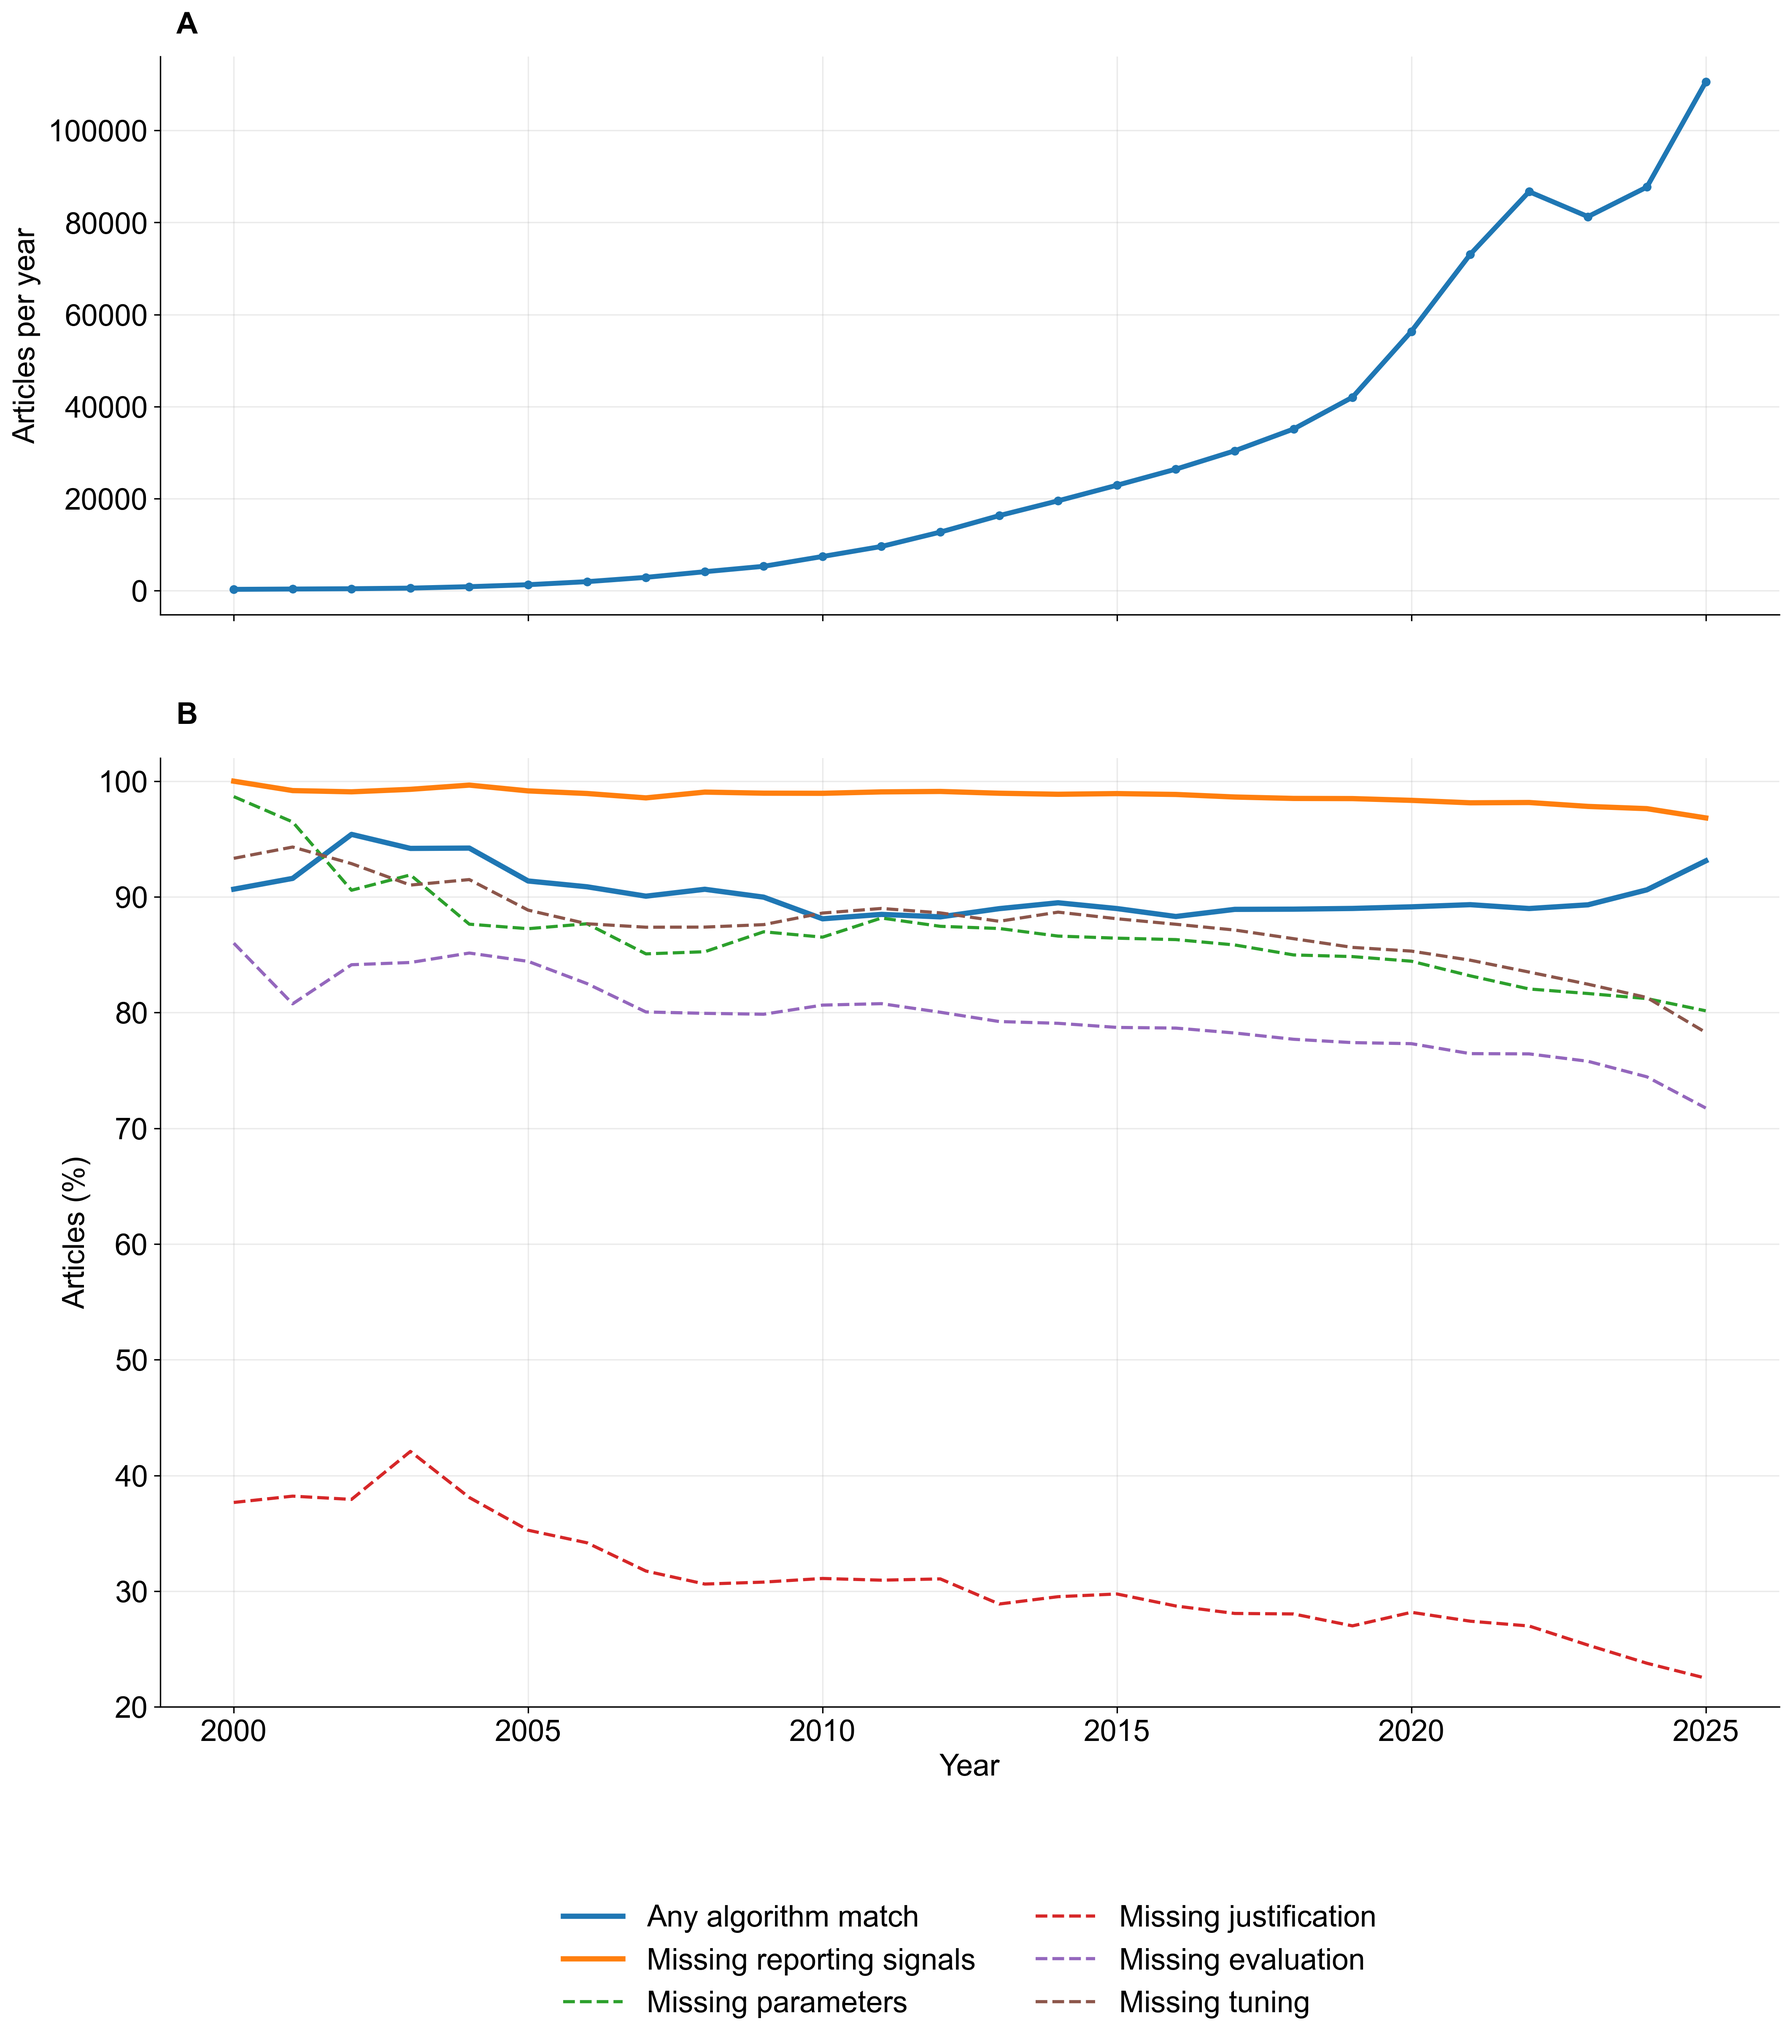
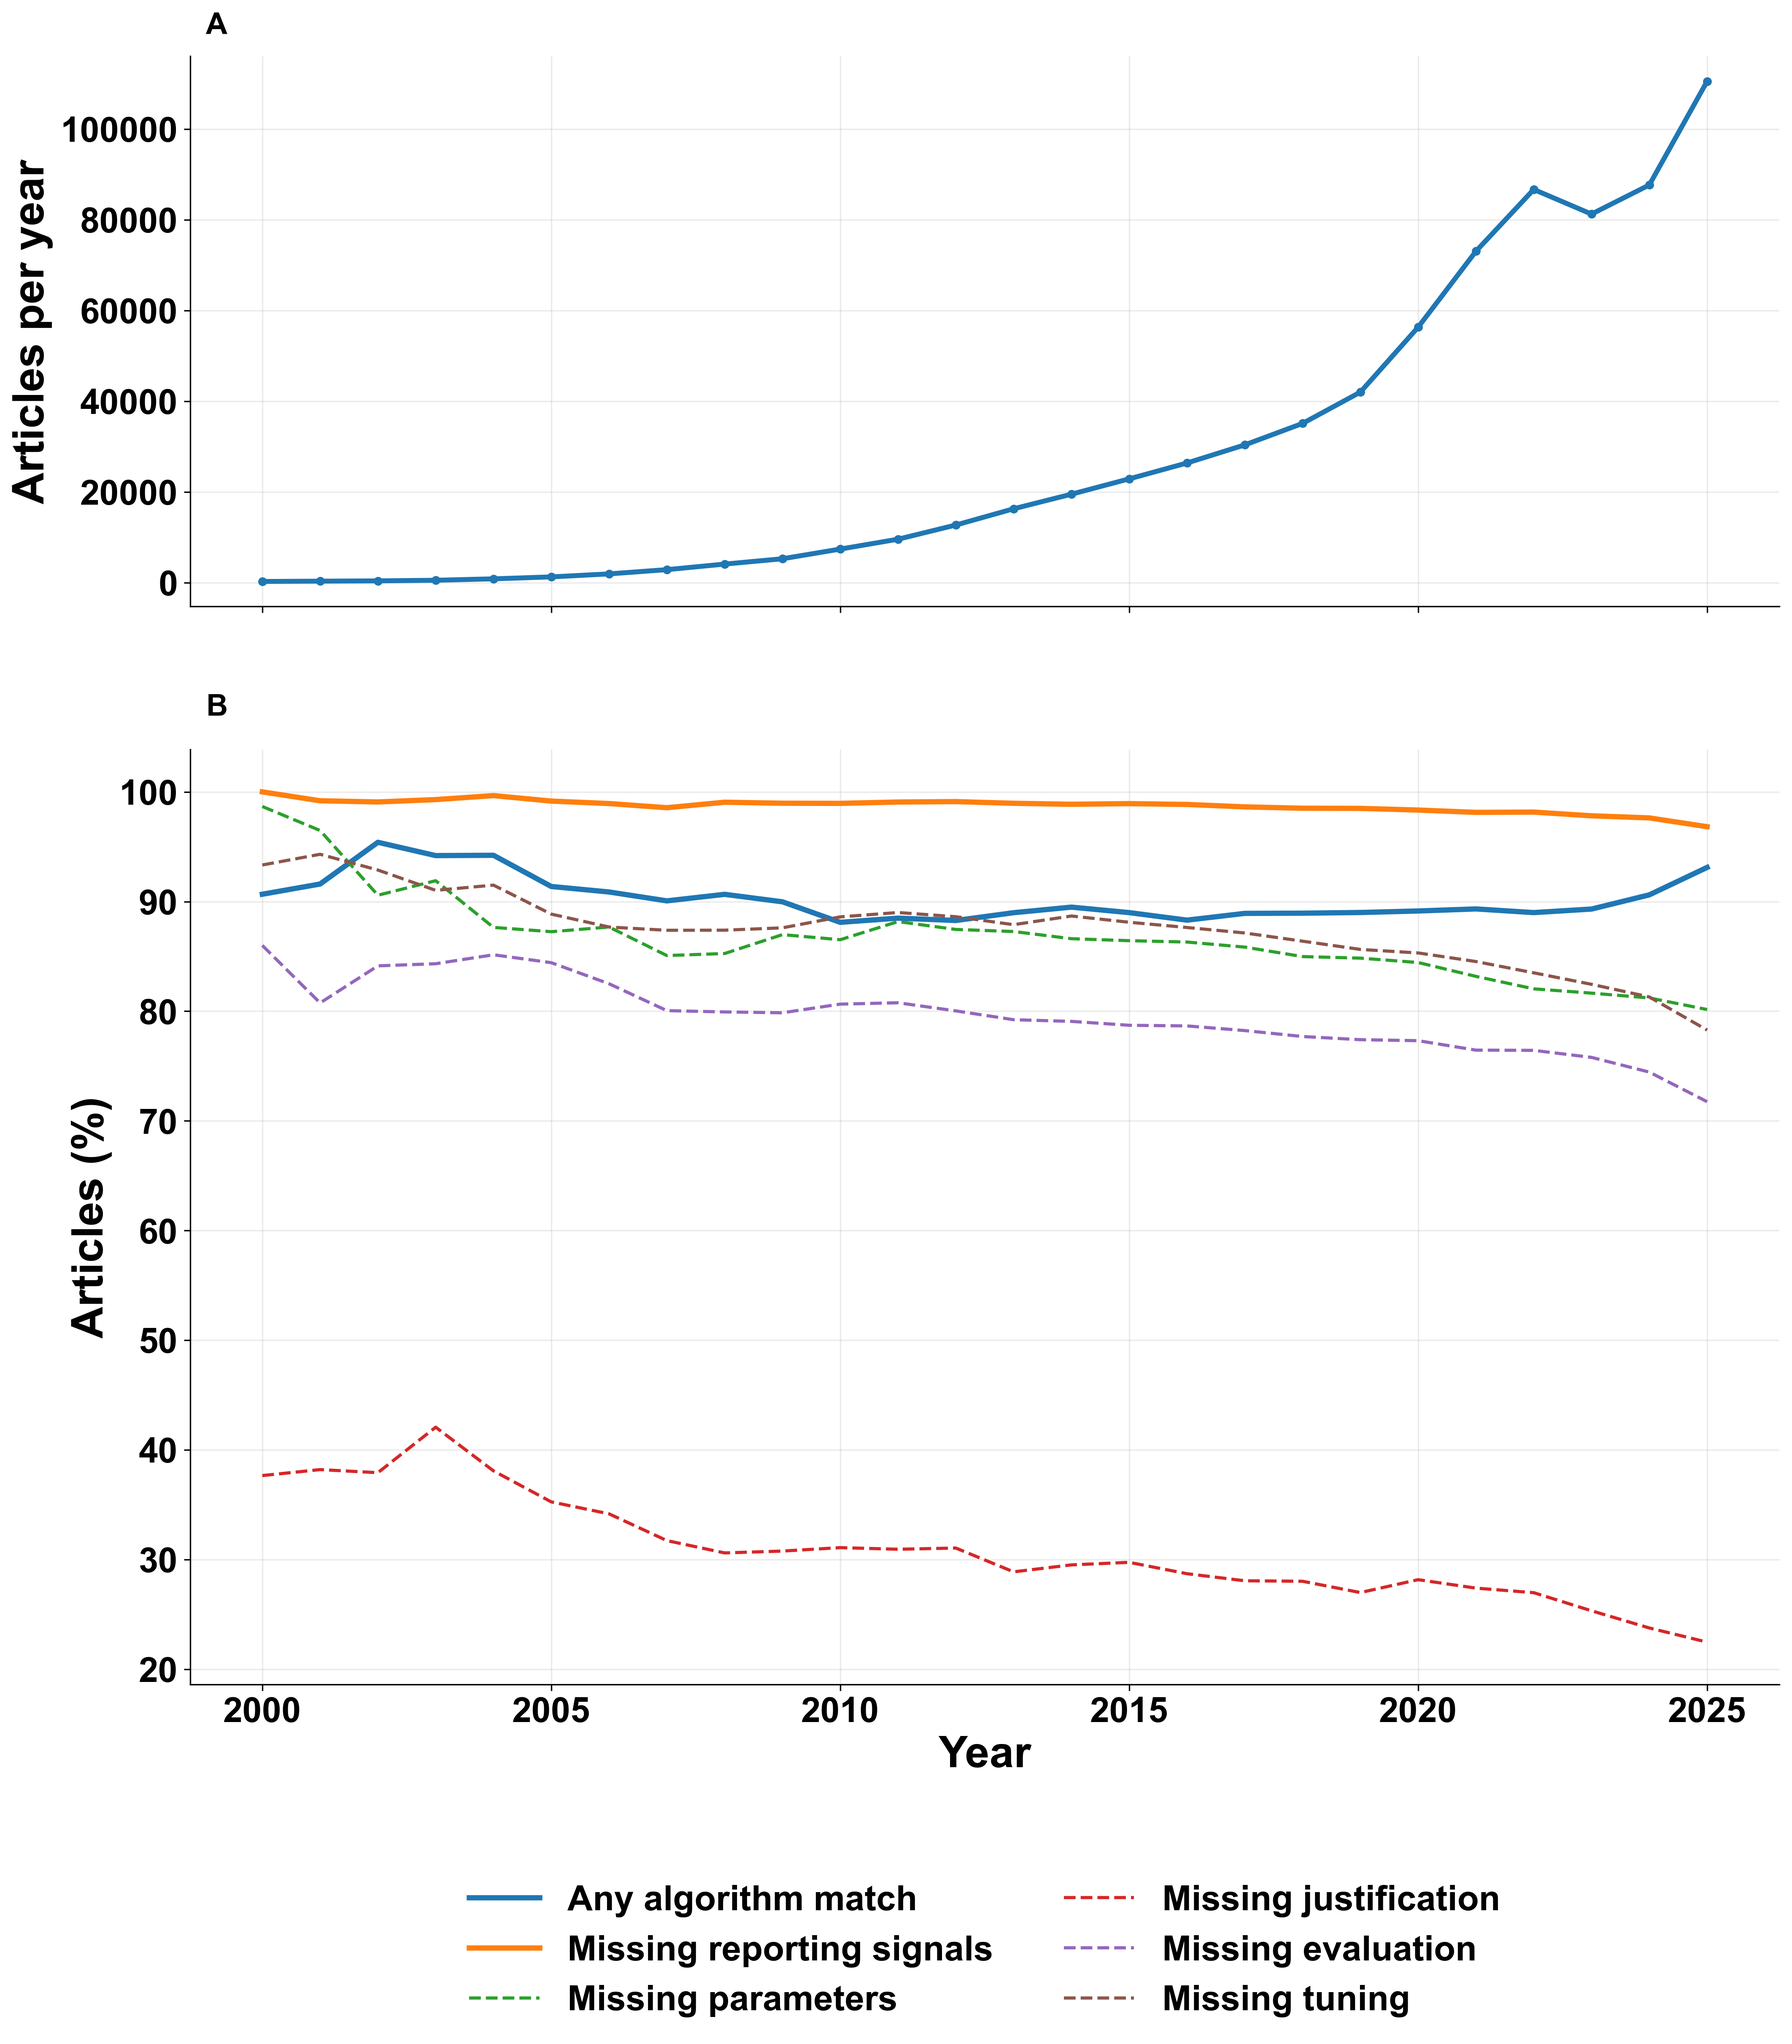
font

diff --git a/vis/plot_p.py b/vis/plot_p.py
@@ -160,7 +160,11 @@ def main() -> int:
         markersize=4,
         label="Total articles",
     )
-    ax1.set_ylabel("Articles per year")
+    ax1.set_ylabel("Articles per year", fontsize = 25, fontweight="bold", fontname="Arial")
+    for label in ax1.get_yticklabels():
+        label.set_fontsize(20)
+        label.set_fontweight("bold")
+        label.set_fontname("Arial")
     #ax1.set_title("Longitudinal summary of clustering-method reporting (2000–2025)")
     ax1.grid(True, alpha=0.25)
     ax1.spines["top"].set_visible(False)
@@ -207,10 +211,16 @@ def main() -> int:
         linestyle="--",
         label="Missing tuning",
     )
-
-    ax2.set_xlabel("Year")
-    ax2.set_ylabel("Articles (%)")
-    ax2.set_ylim(20, 102)
+    ax2.set_xlabel("Year", fontsize = 25, fontweight = "bold", fontname = "Arial")
+    ax2.set_ylabel("Articles (%)", fontsize = 25, fontweight = "bold", fontname = "Arial")
+    for label in ax2.get_yticklabels():
+        label.set_fontsize(20)
+        label.set_fontweight("bold")
+        label.set_fontname("Arial")
+    for label in ax2.get_xticklabels():
+        label.set_fontsize(20)
+        label.set_fontweight("bold")
+        label.set_fontname("Arial")
     ax2.set_xticks(list(range(2000, 2026, 5)))
     ax2.grid(True, alpha=0.25)
     ax2.spines["top"].set_visible(False)
@@ -221,7 +231,7 @@ def main() -> int:
         bbox_to_anchor=(0.5, -0.18),
         ncol=2,
         frameon=False,
-        fontsize=17,
+        prop={'size': 20, 'weight': 'bold', 'family': 'Arial'}
     )
 
     ax1.text(
